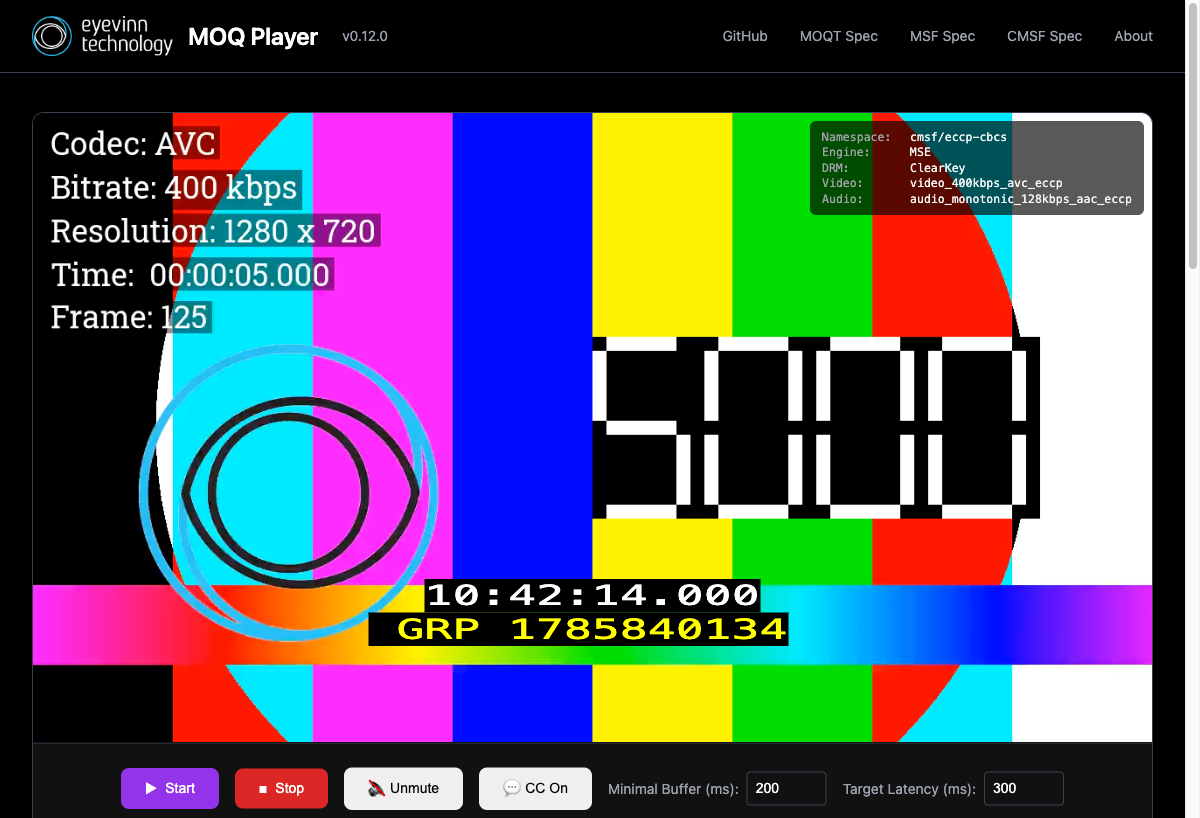
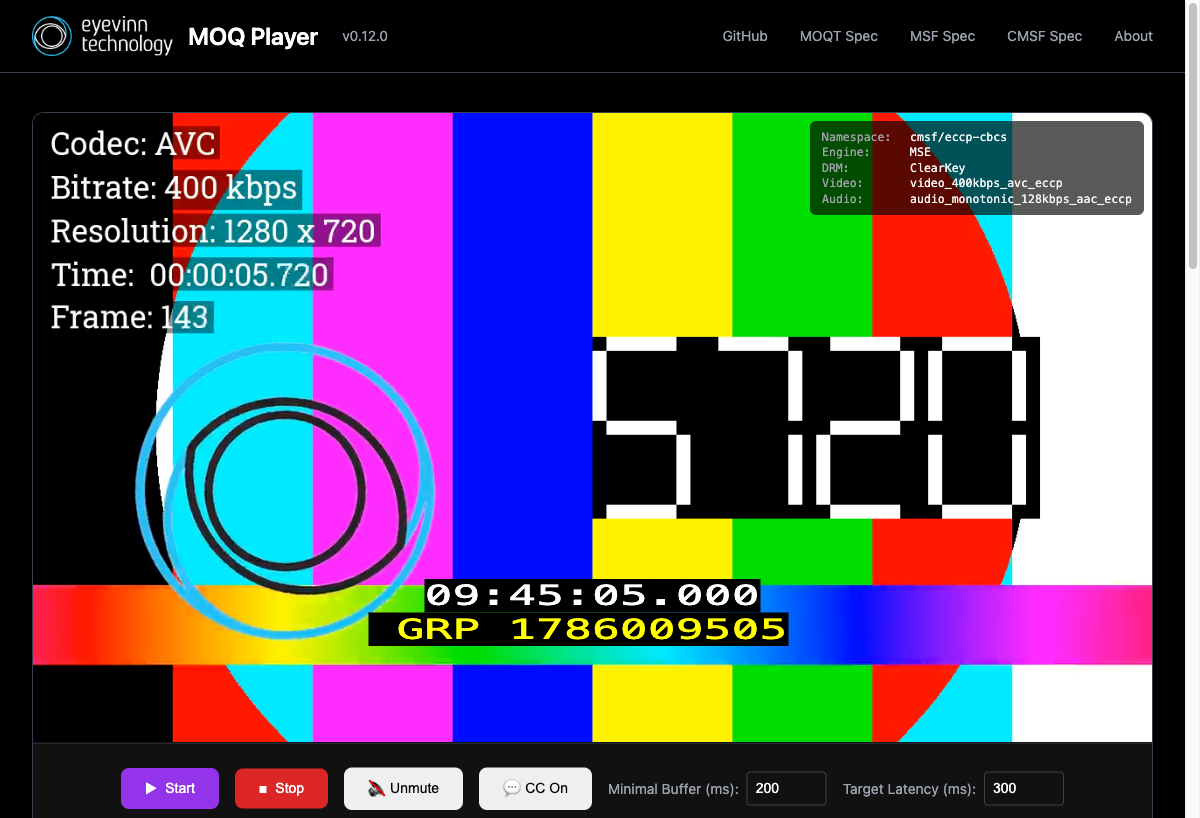
docs(verification): recapture the encrypted rows under paint-on
Rows 5 and 6 were captured before mlmpub defaulted to paint-on and before the
glyph-box fix, so they depicted neither the current caption mode nor the
current rendering. Recaptured in real Chrome 150 against mlmpub -cc608 in its
default paint-on mode, on the first tree to carry both that fix and the
overlay-dispose fix.

Timing the capture matters under paint-on: the row is rewritten two characters
per frame rather than flipped up finished, so the complete caption holds only
the last ~280 ms of each group. Both shots are taken at that instant.

Records the measured paint-on cadence - clear at n+0.04, typing from n+0.20,
complete at n+0.76, held to n+1.04 - which shows GRP n on screen during group
n, the alignment paint-on was introduced to get. Notes that both engines behave
identically and that the higher push rate costs nothing measurable, and adds
the glyph-box defect to the record: it could only appear once captions arrived
progressively, which is why the pop-on rows never showed it.

diff --git a/docs/verification/cc608/README.md b/docs/verification/cc608/README.md
@@ -4,10 +4,20 @@ Browser verification of the map [#157](https://github.com/Eyevinn/warp-player/is
 destination, captured against a live `mlmpub -cc608` with a short-lived EC cert
 and the `-sideport` fingerprint on `127.0.0.1`.
 
-Rows 1–4 were captured on 2026-08-03; rows 5 and 6 on 2026-08-04 in real Google
-Chrome 150 (`navigator.userAgentData.brands` includes `Google Chrome`), after
-the publisher-side ClearKey fix
-([Eyevinn/moqlivemock#122](https://github.com/Eyevinn/moqlivemock/issues/122)).
+Rows 1–4 were captured on 2026-08-03 against the then-default **pop-on**
+caption mode. Rows 5 and 6 were recaptured on 2026-08-06 in real Google Chrome
+150 (`navigator.userAgentData.brands` includes `Google Chrome`) against the
+current default, **paint-on** (`mlmpub -cc608mode`), after two changes that had
+to be in the same tree to depict the final rendering: the publisher-side
+ClearKey fix
+([Eyevinn/moqlivemock#122](https://github.com/Eyevinn/moqlivemock/issues/122)),
+without which encrypted playback never started, and the glyph-box fix below,
+without which paint-on briefly paints an empty box.
+
+Paint-on rewrites the row two characters per frame rather than flipping a
+finished caption up, so rows 5 and 6 are timed to the moment the caption
+completes — that state holds for only the last ~280 ms of each group, the rest
+being ~160 ms blank then ~560 ms of typing.
 
 | #   | path          | namespace        | codec | screenshot                | result |
 | --- | ------------- | ---------------- | ----- | ------------------------- | ------ |
@@ -44,12 +54,21 @@ Measured on the encrypted AVC run (row 5) and spot-checked on the others:
 - **Advances once per second, in step.** Sampling the overlay every 200 ms gave a
   new caption at 1000 ms intervals with `GRP n` incrementing by exactly 1 — not
   frozen and not stepping at segment boundaries.
-- **Publisher offset.** `GRP n` appears ~0.79 s into the group whose time it
-  names (caption `GRP 1785840079` on screen at `currentTime` 1785840079.79),
-  consistent with the ~0.63–0.76 s scheduling offset documented in
-  [Eyevinn/moqlivemock#118](https://github.com/Eyevinn/moqlivemock/issues/118).
-  `GRP n` is on screen during group `n`, so this is the expected constant offset
-  rather than a player defect.
+- **Paint-on cadence, and it lands on the right second.** Sampled every 40 ms
+  (one frame at 25 fps), each group `n` clears at n+0.04, types two characters
+  per frame from n+0.20, completes at n+0.76 and holds to n+1.04 — matching the
+  publisher's design of clearing on frame 1, first characters on frame 4 and
+  complete on frame 17. `GRP n` is on screen during group `n` (`GRP 1785999108`
+  at `currentTime` 1785999108.759), so paint-on displays the caption over the
+  second it names. The ~0.63–0.76 s pop-on scheduling offset discussed in
+  [Eyevinn/moqlivemock#118](https://github.com/Eyevinn/moqlivemock/issues/118)
+  is what paint-on exists to avoid, and it does not apply here.
+- **Same on both engines.** The MSE and WebCodecs paths produce an identical
+  cadence; the extractor reads the live displayed screen, so it needs no
+  per-mode handling. Paint-on pushes ~14 snapshots a second where pop-on pushed
+  one, with no measurable cost: 0 dropped frames of 1379, playback rate 0.999,
+  and `SnapshotTimeline.prune()` runs in the resolution loop so the timeline
+  does not accumulate.
 - **CC button.** Disabled before playback starts, enabled on captioned tracks
   once playing, starts `CC Off` with `aria-pressed=false`, and toggles cleanly to
   `CC On`. On AV1 it stays disabled with the reason string, since AV1 carries
@@ -96,6 +115,19 @@ Worth noting for the "no duplicated rows" check: stacked overlays are exactly
 what that check exists to catch, and it took DOM inspection rather than looking
 at the screen to notice — the stacked rows are pixel-identical and land on top
 of each other.
+
+**3. A background box painted around no glyph** (fixed separately in #176). A
+stray black square flashed ahead of the first character of the yellow row for
+about a frame. A coloured run at column > 0 must be preceded by a mid-row code,
+which occupies a display cell rendered as a styled blank; while the row is
+still arriving pair by pair — which is exactly what paint-on and roll-up do —
+that blank is briefly the row's only non-empty cell and became a one-cell box
+with nothing in it. Only the yellow row showed it: the white row's blank is
+default-styled and therefore indistinguishable from untouched padding.
+
+It surfaced only once the publisher defaulted to paint-on, so pop-on rows 1–4
+never exhibited it. Rows 5 and 6 are the first captures taken with the fix in
+the same tree.
 
 ## Blocked-then-unblocked: the encrypted rows
 
